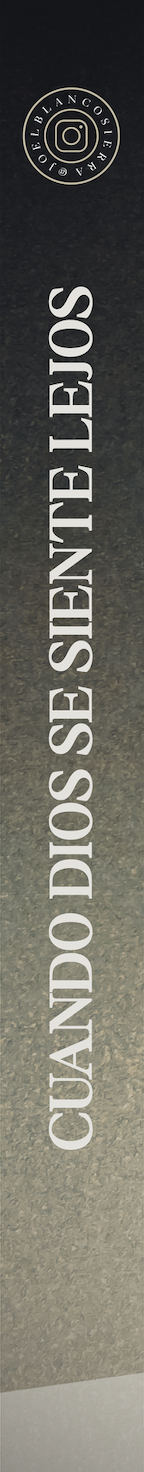
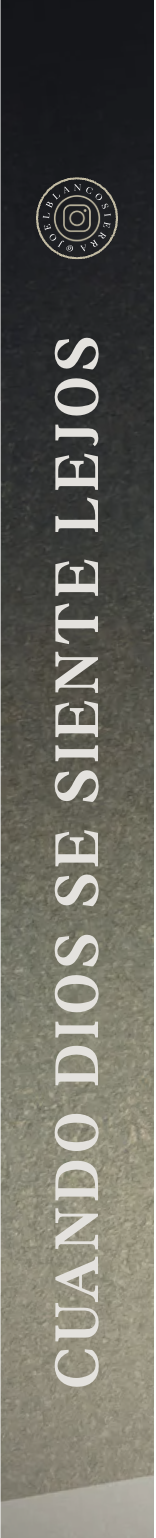
Rewrite the pop-up cards with a title and new 3-step copy
Also bump the book's shrink and the cards' vertical spacing a bit —
the new copy is longer than the placeholder text it replaces.

diff --git a/src/App.tsx b/src/App.tsx
@@ -111,9 +111,9 @@ const HOW_IT_WORKS_STEPS = [
 
 // Pop-up fact cards shown once the (single, persistent) book closes and settles
 const FACT_CARDS = [
-  { title: '21 días', text: 'Una entrada corta cada día, de principio a fin.' },
-  { title: 'Historia + versículo', text: 'Cada día abre con una anécdota real y un pasaje en su contexto.' },
-  { title: 'Reto del día', text: 'Un paso pequeño y concreto, no un consejo vago.' },
+  { title: '1 — La Biblia como espejo', text: 'Cada día empieza con alguien que ya estuvo donde estás tú. Su historia te muestra que hay salida.' },
+  { title: '2 — Un versículo que se queda', text: 'No para memorizarlo. Para entender qué estaba pasando cuando se escribió. Eso lo cambia todo.' },
+  { title: '3 — Una conversación real', text: 'Una frase incompleta. Tú pones el final. El día acaba con algo que decirle a Dios, aunque sean cinco palabras.' },
 ]
 
 // Day titles flipped through rapidly once the book has "entered" the phone
@@ -316,7 +316,7 @@ function HeroSection() {
   rotateY += phoneEnterT * 180 // one more half turn as it shrinks off
   // The book shrinks a bit further while the pop-up cards are visible —
   // otherwise it crowds them out, overlapping both side cards at once.
-  const cardsBookShrink = lerp(1, 0.78, cardsOpacity)
+  const cardsBookShrink = lerp(1, 0.68, cardsOpacity)
   const bookScale = lerp(1, 0.12, phoneEnterT) * cardsBookShrink
   const bookOpacity = 1 - windowT(progress, lerp(CARDS_GONE, PHONE_ENTER_END, 0.7), PHONE_ENTER_END)
   // The phone is always mounted — never faded in, never popped in — exactly
@@ -462,17 +462,23 @@ function HeroSection() {
         {/* 3 fact-card pop-ups — small accents around the book's edges, not
             covering it; fixed with the book, fade in and grow from small to
             full size only once it settles diagonal */}
-        <div style={{ position: 'absolute', top: '12%', left: 0, right: 0, zIndex: 6, padding: '0 12px', opacity: cardsOpacity }}>
-          <div style={{ position: 'relative', width: 'min(98%, 460px)', height: 'clamp(240px, 44vh, 320px)', margin: '0 auto', transform: `scale(${cardsScale})` }}>
+        <div style={{ position: 'absolute', top: '14%', left: 0, right: 0, zIndex: 6, padding: '0 12px', opacity: cardsOpacity, transform: `scale(${cardsScale})` }}>
+          <h3 style={{
+            fontFamily: 'var(--font-serif)', color: '#f5f0e8', fontSize: 'clamp(15px, 3vw, 19px)', fontWeight: 700,
+            textAlign: 'center', margin: '0 auto 14px', maxWidth: '260px', lineHeight: 1.25,
+          }}>
+            3 pasos para volver a escuchar a Dios
+          </h3>
+          <div style={{ position: 'relative', width: 'min(98%, 460px)', height: 'clamp(280px, 50vh, 360px)', margin: '0 auto' }}>
             {FACT_CARDS.map((card, i) => (
               <div
                 key={card.title}
                 style={{
                   position: 'absolute',
-                  top: `${[0, 34, 68][i]}%`,
+                  top: `${[0, 36, 72][i]}%`,
                   left: i !== 1 ? '0%' : undefined,
                   right: i === 1 ? '0%' : undefined,
-                  width: 'clamp(108px, 34vw, 135px)',
+                  width: 'clamp(126px, 40vw, 160px)',
                   background: '#0a0a0a', border: '1px solid rgba(201,169,110,0.3)', borderRadius: '8px',
                   padding: '10px 12px', textAlign: 'left', boxShadow: '0 12px 30px rgba(0,0,0,0.5)',
                 }}
